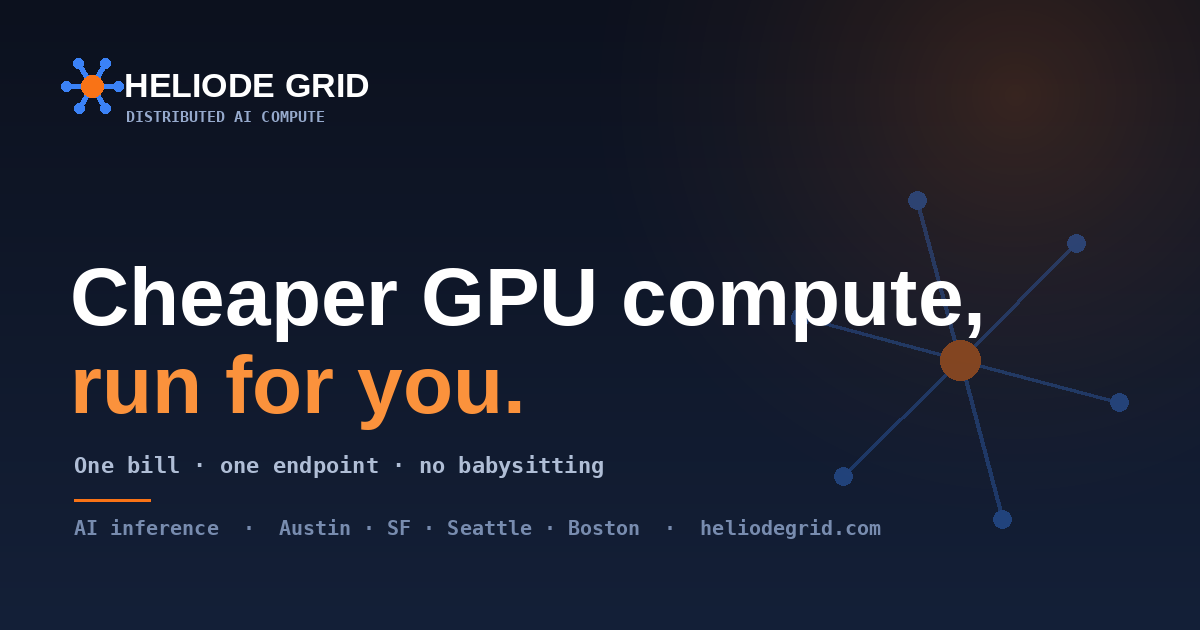
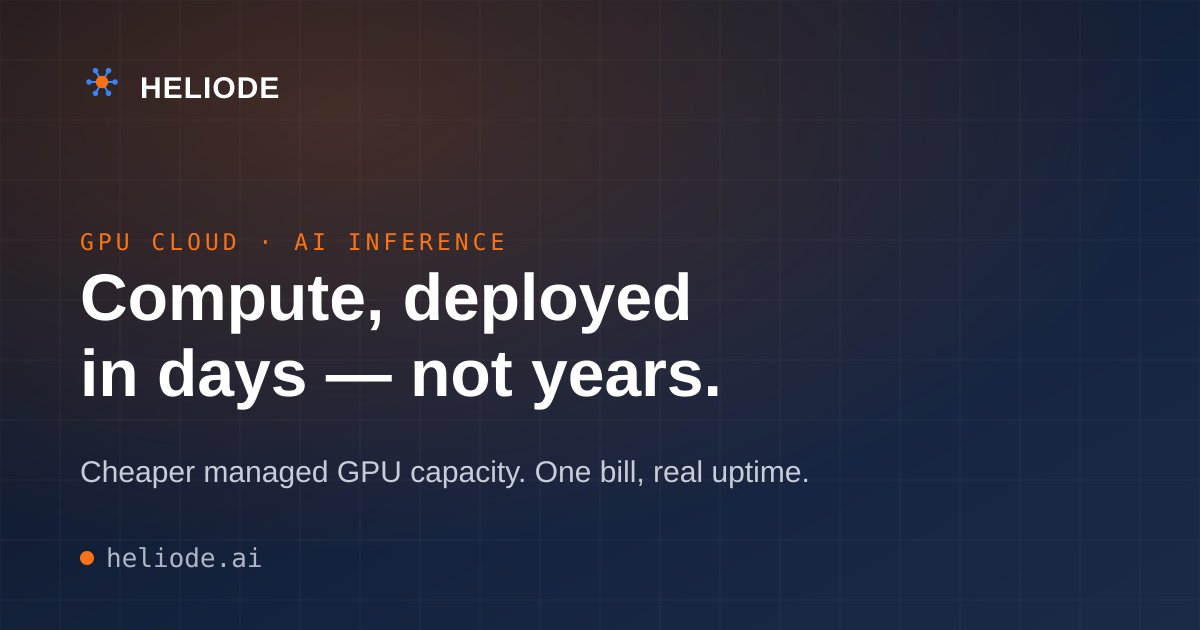
Add branded per-page link-preview (OG) images + wire og:image/twitter on every page; add robots.txt + sitemap.xml for SEO
- Generate 11 on-brand 1200x630 OG cards (homepage, investor, teaser, plan, dashboard, rep, course, playbook, join, cost) → og.png + /og/*.png
- Add/repoint og:image + twitter:image per page so link shares show artwork + a content preview
- robots.txt (allow public, disallow confidential pages) + sitemap.xml (homepage + cost teardown)

Claude-Session: https://claude.ai/code/session_01VVo1THomVMck1ZECsv96j4

diff --git a/academy.html b/academy.html
@@ -5,6 +5,17 @@
 <meta name="viewport" content="width=device-width, initial-scale=1.0">
 <meta name="robots" content="noindex,nofollow">
 <title>Heliode — Founder's Course</title>
+<meta property="og:type" content="website">
+<meta property="og:site_name" content="Heliode">
+<meta property="og:url" content="https://heliode.ai/academy.html">
+<meta property="og:title" content="Heliode — Founder's Course">
+<meta property="og:description" content="Everything behind Heliode — and how to sell it.">
+<meta property="og:image" content="https://heliode.ai/og/og-academy.png">
+<meta property="og:image:width" content="1200">
+<meta property="og:image:height" content="630">
+<meta name="twitter:card" content="summary_large_image">
+<meta name="twitter:title" content="Heliode — Founder's Course">
+<meta name="twitter:image" content="https://heliode.ai/og/og-academy.png">
 <link rel="icon" type="image/svg+xml" href="/logo.svg">
 <link rel="preconnect" href="https://fonts.googleapis.com">
 <link rel="preconnect" href="https://fonts.gstatic.com" crossorigin>

diff --git a/admin.html b/admin.html
@@ -5,6 +5,17 @@
 <meta name="viewport" content="width=device-width, initial-scale=1.0">
 <meta name="robots" content="noindex,nofollow">
 <title>Heliode — Dashboard</title>
+<meta property="og:type" content="website">
+<meta property="og:site_name" content="Heliode">
+<meta property="og:url" content="https://heliode.ai/admin.html">
+<meta property="og:title" content="Heliode — Dashboard">
+<meta property="og:description" content="Internal dashboard — leads, reps, vendors, investors and live metrics.">
+<meta property="og:image" content="https://heliode.ai/og/og-admin.png">
+<meta property="og:image:width" content="1200">
+<meta property="og:image:height" content="630">
+<meta name="twitter:card" content="summary_large_image">
+<meta name="twitter:title" content="Heliode — Dashboard">
+<meta name="twitter:image" content="https://heliode.ai/og/og-admin.png">
 <link rel="preconnect" href="https://fonts.googleapis.com">
 <link rel="preconnect" href="https://fonts.gstatic.com" crossorigin>
 <link href="https://fonts.googleapis.com/css2?family=Space+Grotesk:wght@500;600;700&family=Inter:wght@400;500;600&family=JetBrains+Mono:wght@400;500&display=swap" rel="stylesheet">

diff --git a/business-plan.html b/business-plan.html
@@ -5,6 +5,17 @@
 <meta name="viewport" content="width=device-width, initial-scale=1.0">
 <meta name="robots" content="noindex,nofollow">
 <title>Heliode — Business Plan</title>
+<meta property="og:type" content="website">
+<meta property="og:site_name" content="Heliode">
+<meta property="og:url" content="https://heliode.ai/business-plan.html">
+<meta property="og:title" content="Heliode — Business Plan">
+<meta property="og:description" content="The managed compute layer for AI inference. Cheaper capacity today, owned capacity next.">
+<meta property="og:image" content="https://heliode.ai/og/og-business-plan.png">
+<meta property="og:image:width" content="1200">
+<meta property="og:image:height" content="630">
+<meta name="twitter:card" content="summary_large_image">
+<meta name="twitter:title" content="Heliode — Business Plan">
+<meta name="twitter:image" content="https://heliode.ai/og/og-business-plan.png">
 <link rel="icon" type="image/svg+xml" href="/logo.svg">
 <link rel="preconnect" href="https://fonts.googleapis.com">
 <link rel="preconnect" href="https://fonts.gstatic.com" crossorigin>

diff --git a/playbook.html b/playbook.html
@@ -5,6 +5,17 @@
 <meta name="viewport" content="width=device-width, initial-scale=1.0">
 <meta name="robots" content="noindex,nofollow">
 <title>Heliode — Operator Playbook</title>
+<meta property="og:type" content="website">
+<meta property="og:site_name" content="Heliode">
+<meta property="og:url" content="https://heliode.ai/playbook.html">
+<meta property="og:title" content="Heliode — Operator Playbook">
+<meta property="og:description" content="Command center: scripts, comp, company formation, daily plan.">
+<meta property="og:image" content="https://heliode.ai/og/og-playbook.png">
+<meta property="og:image:width" content="1200">
+<meta property="og:image:height" content="630">
+<meta name="twitter:card" content="summary_large_image">
+<meta name="twitter:title" content="Heliode — Operator Playbook">
+<meta name="twitter:image" content="https://heliode.ai/og/og-playbook.png">
 <link rel="preconnect" href="https://fonts.googleapis.com">
 <link rel="preconnect" href="https://fonts.gstatic.com" crossorigin>
 <link href="https://fonts.googleapis.com/css2?family=Space+Grotesk:wght@500;600;700&family=Inter:wght@400;500;600&family=JetBrains+Mono:wght@400;500&display=swap" rel="stylesheet">

diff --git a/rep.html b/rep.html
@@ -5,6 +5,17 @@
 <meta name="viewport" content="width=device-width, initial-scale=1.0">
 <meta name="robots" content="noindex,nofollow">
 <title>Heliode — Rep Portal</title>
+<meta property="og:type" content="website">
+<meta property="og:site_name" content="Heliode">
+<meta property="og:url" content="https://heliode.ai/rep.html">
+<meta property="og:title" content="Heliode — Rep Portal">
+<meta property="og:description" content="Track your accounts and commission in one place.">
+<meta property="og:image" content="https://heliode.ai/og/og-rep.png">
+<meta property="og:image:width" content="1200">
+<meta property="og:image:height" content="630">
+<meta name="twitter:card" content="summary_large_image">
+<meta name="twitter:title" content="Heliode — Rep Portal">
+<meta name="twitter:image" content="https://heliode.ai/og/og-rep.png">
 <link rel="preconnect" href="https://fonts.googleapis.com">
 <link rel="preconnect" href="https://fonts.gstatic.com" crossorigin>
 <link href="https://fonts.googleapis.com/css2?family=Space+Grotesk:wght@500;600;700&family=Inter:wght@400;500;600&family=JetBrains+Mono:wght@400;500&display=swap" rel="stylesheet">

diff --git a/inference-cost.html b/inference-cost.html
@@ -14,6 +14,11 @@
 </script>
 
 <title>What AI inference actually costs in 2026 — and where the money goes | Heliode</title>
+<meta property="og:image" content="https://heliode.ai/og/og-inference-cost.png">
+<meta property="og:image:width" content="1200">
+<meta property="og:image:height" content="630">
+<meta name="twitter:card" content="summary_large_image">
+<meta name="twitter:image" content="https://heliode.ai/og/og-inference-cost.png">
 <meta name="description" content="A plain-English teardown of GPU inference pricing: hyperscaler on-demand vs. neoclouds vs. marketplace/spot, why teams overpay 2–5×, and where a typical GPU bill leaks. Includes a free savings calculator.">
 <link rel="canonical" href="https://heliode.ai/inference-cost.html">
 <meta name="robots" content="index,follow">

diff --git a/join.html b/join.html
@@ -5,6 +5,11 @@
 <meta name="viewport" content="width=device-width, initial-scale=1.0">
 <meta name="robots" content="noindex,nofollow">
 <title>Heliode — Stake Your Claim (Founding Sales)</title>
+<meta property="og:image" content="https://heliode.ai/og/og-join.png">
+<meta property="og:image:width" content="1200">
+<meta property="og:image:height" content="630">
+<meta name="twitter:card" content="summary_large_image">
+<meta name="twitter:image" content="https://heliode.ai/og/og-join.png">
 <meta name="description" content="There's a gold rush in AI compute. Heliode owns the supply line — and we're handing out claims. Uncapped commission, equity you earn by landing customers, ground floor.">
 <meta property="og:title" content="Heliode — There's a gold rush in AI. Stake your claim.">
 <meta property="og:description" content="We own the supply behind AI inference. Closers wanted — uncapped commission + earned equity, ground floor.">

diff --git a/opportunity.html b/opportunity.html
@@ -4,6 +4,11 @@
 <meta charset="UTF-8" />
 <meta name="viewport" content="width=device-width, initial-scale=1.0" />
 <title>Heliode — Investment Opportunity</title>
+<meta property="og:image" content="https://heliode.ai/og/og-opportunity.png">
+<meta property="og:image:width" content="1200">
+<meta property="og:image:height" content="630">
+<meta name="twitter:card" content="summary_large_image">
+<meta name="twitter:image" content="https://heliode.ai/og/og-opportunity.png">
 <meta name="description" content="Heliode delivers cheaper managed GPU compute for AI inference today, and is building owned regional capacity — GPU clusters in commercial/light-industrial space, close to demand, standing up in days, not the years a data center takes." />
 <meta name="robots" content="noindex" />
 

diff --git a/investors.html b/investors.html
@@ -8,9 +8,9 @@
 <meta name="theme-color" content="#ffffff">
 <link rel="icon" type="image/svg+xml" href="/logo.svg">
 <meta property="og:title" content="Heliode — Investor Portal">
-<meta property="og:image" content="https://heliode.ai/og.png">
+<meta property="og:image" content="https://heliode.ai/og/og-investors.png">
 <meta name="twitter:card" content="summary_large_image">
-<meta name="twitter:image" content="https://heliode.ai/og.png">
+<meta name="twitter:image" content="https://heliode.ai/og/og-investors.png">
 <link rel="preconnect" href="https://fonts.googleapis.com">
 <link rel="preconnect" href="https://fonts.gstatic.com" crossorigin>
 <link href="https://fonts.googleapis.com/css2?family=Space+Grotesk:wght@500;600;700&family=Inter:wght@400;500;600&family=JetBrains+Mono:wght@400;500&display=swap" rel="stylesheet">

diff --git a/teaser.html b/teaser.html
@@ -11,11 +11,11 @@
 <meta property="og:title" content="Heliode — Investor Teaser">
 <meta property="og:description" content="Distributed AI compute, deployed where the demand is. Cheaper GPU-hours, managed for you.">
 <meta property="og:url" content="https://heliode.ai/teaser.html">
-<meta property="og:image" content="https://heliode.ai/og.png">
+<meta property="og:image" content="https://heliode.ai/og/og-teaser.png">
 <meta property="og:image:width" content="1200">
 <meta property="og:image:height" content="630">
 <meta name="twitter:card" content="summary_large_image">
-<meta name="twitter:image" content="https://heliode.ai/og.png">
+<meta name="twitter:image" content="https://heliode.ai/og/og-teaser.png">
 <link rel="preconnect" href="https://fonts.googleapis.com">
 <link rel="preconnect" href="https://fonts.gstatic.com" crossorigin>
 <link href="https://fonts.googleapis.com/css2?family=Space+Grotesk:wght@500;600;700&family=Inter:wght@400;500;600&family=JetBrains+Mono:wght@400;500&display=swap" rel="stylesheet">